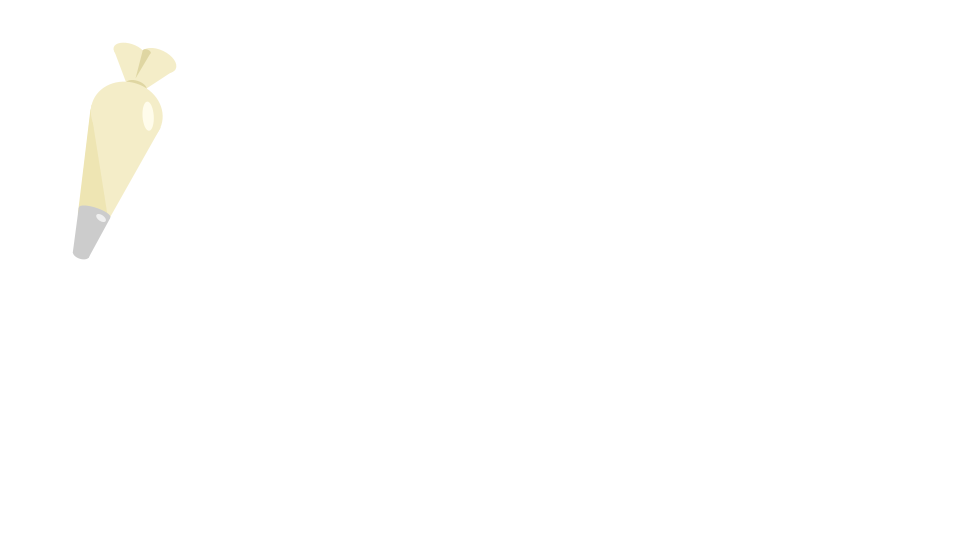
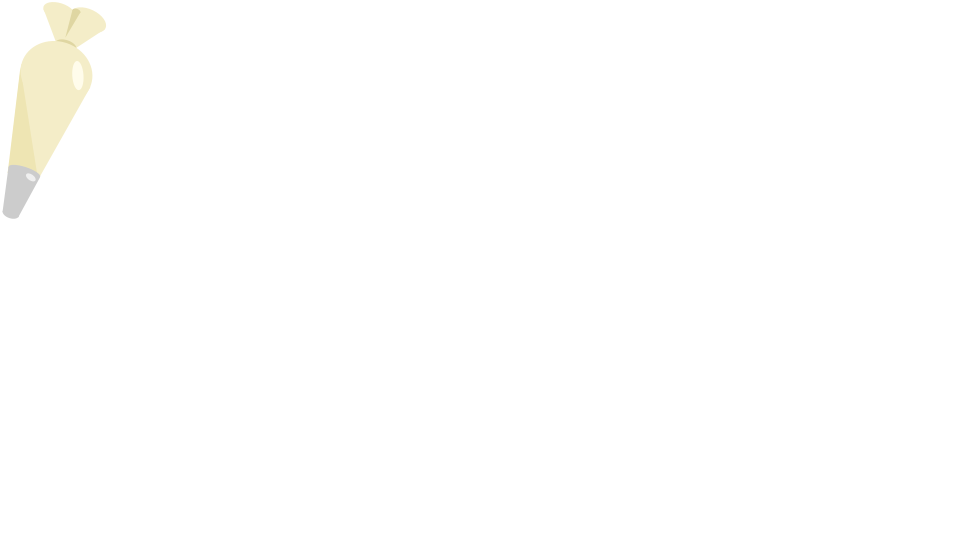
added cursor image and placement location limitation

Changed region(s): [[0.0, 0.0, 0.1875, 0.4741]]

diff --git a/src/DisplayPanel.java b/src/DisplayPanel.java
@@ -1,24 +1,17 @@
 import javax.imageio.ImageIO;
 import javax.swing.*;
 import java.awt.*;
-import java.awt.Frame;
-import java.awt.datatransfer.Clipboard;
 import java.awt.event.ActionEvent;
 import java.awt.event.ActionListener;
 import java.awt.event.MouseEvent;
 import java.awt.event.MouseListener;
-import java.awt.font.TextAttribute;
-import java.awt.im.InputMethodHighlight;
 import java.awt.image.BufferedImage;
-import java.awt.image.ColorModel;
-import java.awt.image.ImageObserver;
-import java.awt.image.ImageProducer;
 import java.io.File;
 import java.io.IOException;
-import java.net.URL;
 import java.util.ArrayList;
-import java.util.Map;
-import java.util.Properties;
+import java.awt.Cursor;
+import java.awt.Point;
+import java.awt.Toolkit;
 
 public class DisplayPanel extends JPanel implements ActionListener, MouseListener {
     //dialogue options
@@ -100,8 +93,10 @@ public class DisplayPanel extends JPanel implements ActionListener, MouseListene
     private boolean frost = false;
     private boolean nextLayer = false;
 
-    //...
-    private Toolkit toolkit;
+    //custom cursor
+    private Cursor defaultCursor;
+    private Cursor customCursor;
+    private boolean isCustomCursor = false;
 
     //frosting
     private ArrayList<Dallop> dallops = new ArrayList<>();
@@ -111,6 +106,9 @@ public class DisplayPanel extends JPanel implements ActionListener, MouseListene
     private String batter;
     private String frosting;
     private String topping;
+
+    //limiting placement of toppings
+    private BufferedImage cakeMask;
 
     public DisplayPanel(JFrame frame) {
         //logic
@@ -233,6 +231,7 @@ public class DisplayPanel extends JPanel implements ActionListener, MouseListene
         textBubble = loadImage("Imgs/TextBubble.png");
         bgBatter = loadImage("Imgs/bgBatter.png");
         bgFrosting = loadImage("Imgs/bgFrosting.png");
+        cakeMask = loadImage("Imgs/cakeMask.png");
 
         //animation
         timer = new Timer(30, new ActionListener() {
@@ -243,6 +242,9 @@ public class DisplayPanel extends JPanel implements ActionListener, MouseListene
             }
         });
         timer.start();
+
+        //custom cursor
+        defaultCursor = this.getCursor();
     }
 
     public void paintComponent(Graphics g) {
@@ -415,6 +417,10 @@ public class DisplayPanel extends JPanel implements ActionListener, MouseListene
                 userCake.chooseFrosting("chocolate");
                 frostingFlavor = "Chocolate";
             }
+            if (casted != nextFrame) {
+                loadCustomCursor("Frosting/" + frostingFlavor + "Piping.png", 200);
+                toggleCursor();
+            }
             if (casted == nextFrame) {
                 currScreen = "topping";
             }
@@ -436,31 +442,28 @@ public class DisplayPanel extends JPanel implements ActionListener, MouseListene
     public void mouseReleased(MouseEvent e) {
         if (e.getButton() == MouseEvent.BUTTON1 && frostingFlavor != null) {  // left mouse click
             Point mouseClickLocation = e.getPoint();
-            Dallop dallop = new Dallop(mouseClickLocation.x, mouseClickLocation.y, frostingFlavor);
-            dallops.add(dallop);
+            if (isPointInValidArea(mouseClickLocation.x, mouseClickLocation.y)) {
+                Dallop dallop = new Dallop(mouseClickLocation.x, mouseClickLocation.y, frostingFlavor);
+                dallops.add(dallop);
+            }
         }
     }
 
     @Override
     public void mouseEntered(MouseEvent e) {
-
     }
 
     @Override
     public void mouseExited(MouseEvent e) {
-
     }
 
     @Override
     public void mouseClicked(MouseEvent e) {
-
     }
 
     @Override
     public void mousePressed(MouseEvent e) {
-
     }
-
 
     private void clear() {
         //options
@@ -500,5 +503,35 @@ public class DisplayPanel extends JPanel implements ActionListener, MouseListene
             System.out.println(e.getMessage());
         }
         return null;
+    }
+
+    private void loadCustomCursor(String path, int offsetY) {
+        try {
+            BufferedImage cursorImg = ImageIO.read(new File("src/" + path));
+            customCursor = Toolkit.getDefaultToolkit().createCustomCursor(cursorImg, new Point(0, offsetY), "custom");
+        } catch (IOException e) {
+            customCursor = defaultCursor;
+        }
+    }
+
+    private void toggleCursor() {
+        if (customCursor != null) {
+            if (isCustomCursor) {
+                this.setCursor(defaultCursor);
+            } else {
+                this.setCursor(customCursor);
+            }
+            isCustomCursor = !isCustomCursor;
+        }
+    }
+
+    private boolean isPointInValidArea(int x, int y) {
+        //check if point is within image bounds
+        if (x < 0 || y < 0 || x >= cakeMask.getWidth() || y >= cakeMask.getHeight()) {
+            return false;
+        }
+        //check if pixel at (x,y) is not transparent
+        int pixel = cakeMask.getRGB(x, y);
+        return (pixel >> 24) != 0x00;
     }
 }
